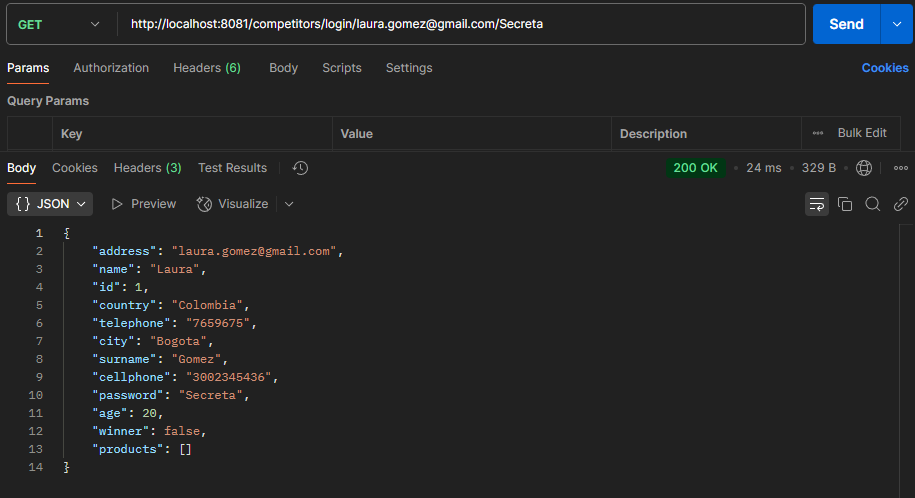
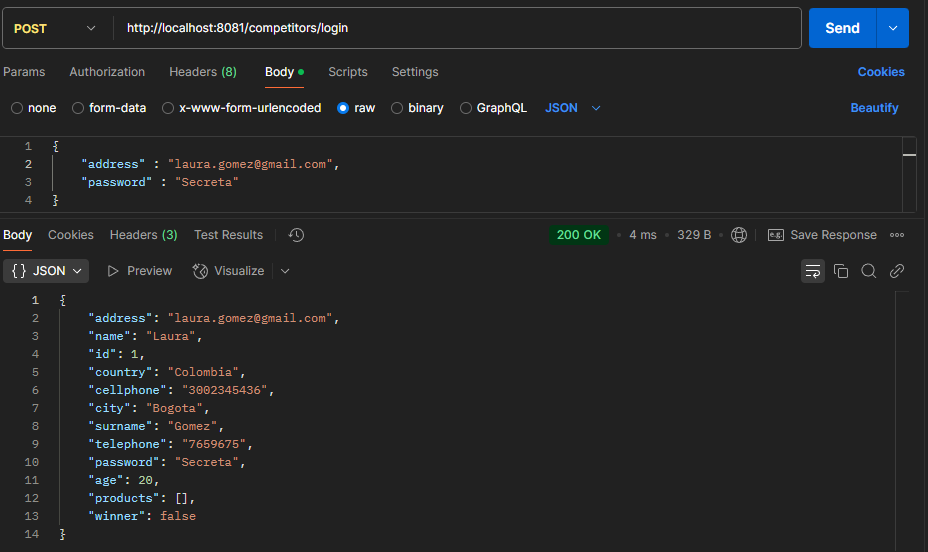
fix files

diff --git a/src/main/java/com/example/services/CompetitorService.java b/src/main/java/com/example/services/CompetitorService.java
@@ -8,12 +8,14 @@ package com.example.services;
 import com.example.PersistenceManager;
 import com.example.models.Competitor;
 import com.example.models.CompetitorDTO;
+import com.example.models.Login;
 import java.util.List;
 import javax.annotation.PostConstruct;
 import javax.persistence.EntityManager;
 import javax.persistence.NoResultException;
 import javax.persistence.PersistenceContext;
 import javax.persistence.Query;
+import javax.ws.rs.Consumes;
 import javax.ws.rs.GET;
 import javax.ws.rs.POST;
 import javax.ws.rs.Path;
@@ -87,22 +89,34 @@ public class CompetitorService {
         return Response.status(200).header("Access-Control-Allow-Origin", "*").entity(rta).build();
     }
 
-    @GET
-    @Path("/login/{addressN}/{password}")
+    @POST
+    @Path("/login")
+    @Consumes(MediaType.APPLICATION_JSON)
     @Produces(MediaType.APPLICATION_JSON)
-    public Competitor logIn(@PathParam("addressN") String addressN, @PathParam("password") String password) throws NotAuthorizedException {
+    public Response logIn(Login login) {
         try {
+            String addressN = login.getAddress();
+            String password = login.getPassword();
+
             Query query = entityManager.createQuery("SELECT c FROM Competitor c WHERE c.address = :addressN");
             query.setParameter("addressN", addressN);
 
             Competitor competitor = (Competitor) query.getSingleResult();
 
             if (!competitor.getPassword().equals(password)) {
-                throw new NotAuthorizedException("Contraseña incorrecta");
+                return Response.status(Response.Status.UNAUTHORIZED)
+                        .entity("Contraseña incorrecta")
+                        .type("text/plain")
+                        .build();
             }
-            return competitor;
+
+            return Response.ok(competitor).build();
+
         } catch (NoResultException e) {
-            throw new NotAuthorizedException("Correo no registrado");
+            return Response.status(Response.Status.UNAUTHORIZED)
+                    .entity("Correo no registrado")
+                    .type("text/plain")
+                    .build();
         }
     }
 

diff --git a/src/main/java/com/example/models/Login.java b/src/main/java/com/example/models/Login.java
@@ -1,0 +1,42 @@
+/*
+ * To change this license header, choose License Headers in Project Properties.
+ * To change this template file, choose Tools | Templates
+ * and open the template in the editor.
+ */
+package com.example.models;
+
+/**
+ *
+ * @author RayAj
+ */
+public class Login {
+    private String address;
+    private String password;
+
+    public Login() {
+    }
+
+    
+    public Login(String address, String password) {
+        this.address = address;
+        this.password = password;
+    }
+
+    public String getAddress() {
+        return address;
+    }
+
+    public void setAddress(String address) {
+        this.address = address;
+    }
+
+    public String getPassword() {
+        return password;
+    }
+
+    public void setPassword(String password) {
+        this.password = password;
+    }
+    
+    
+}

diff --git a/README.md b/README.md
@@ -9,3 +9,4 @@ La anotación agregada en la entidad Competitor indica que un competidor puede e
 ![imagen2](img/img2.png)
 ![imagen3](img/img3.png)
 ![imagen4](img/img4.png)
+![imagen5](img/img5.png)
